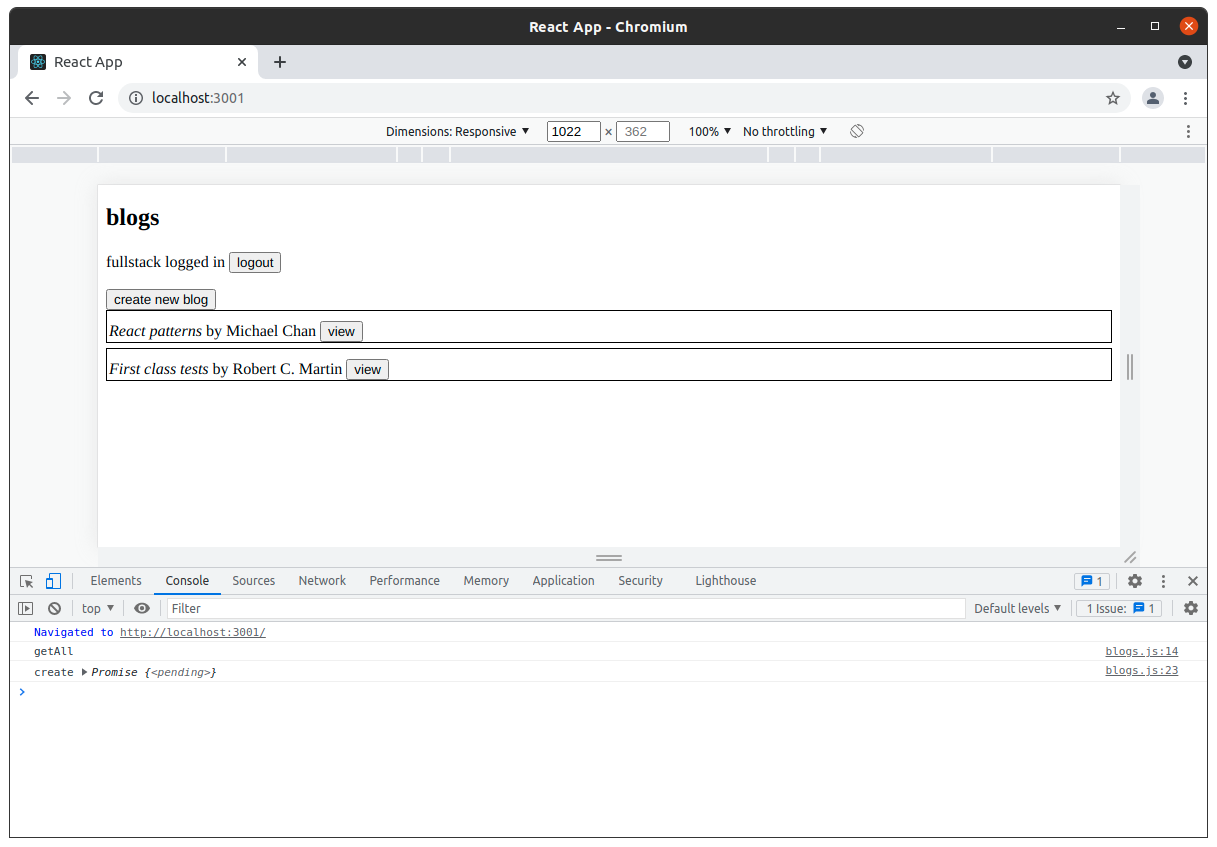
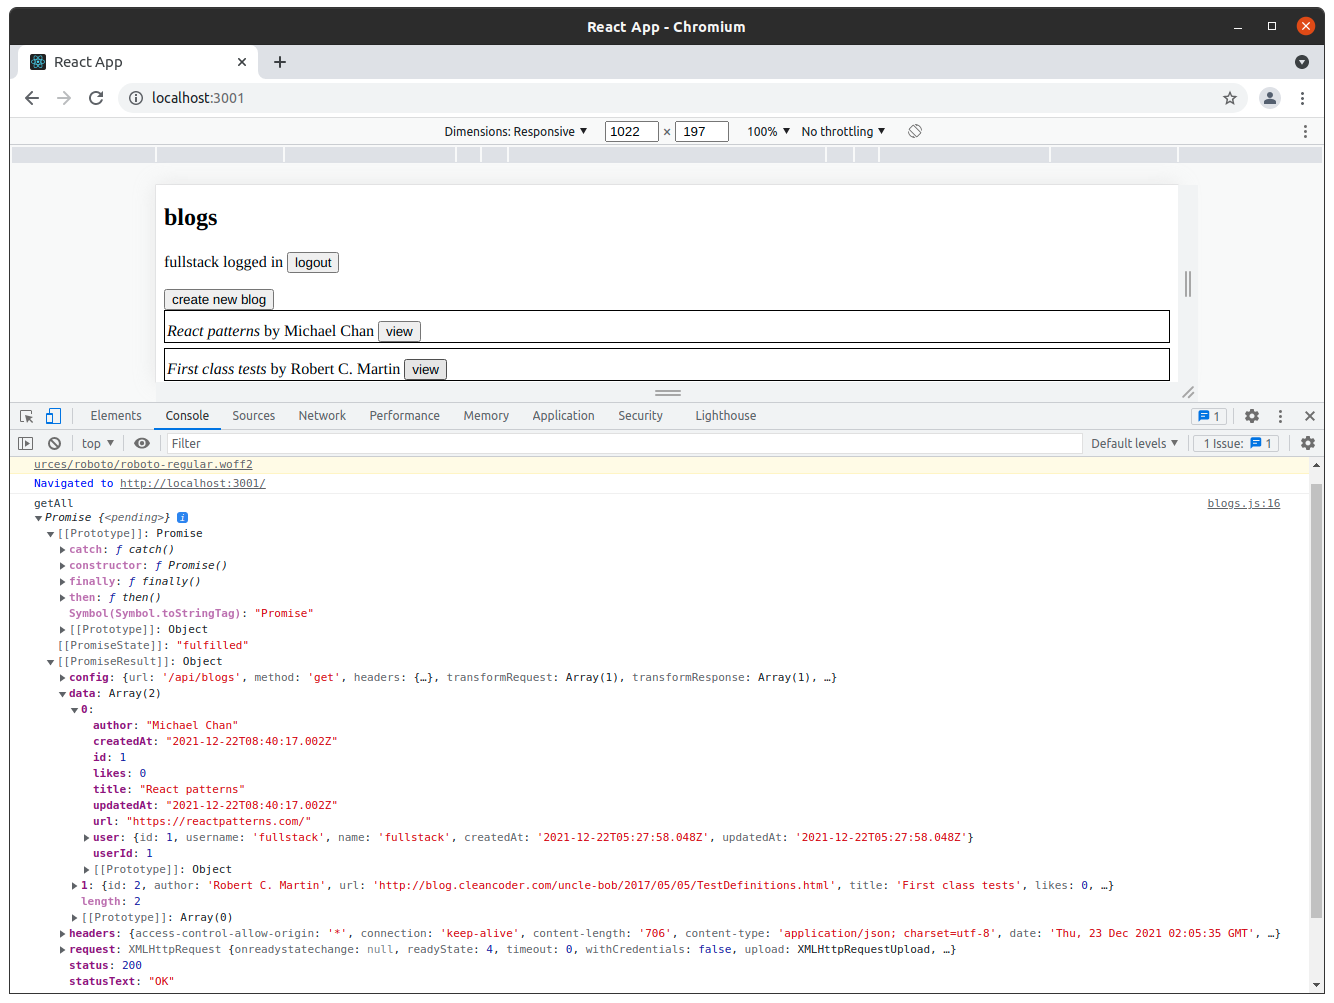
13.10

Changed region(s): [[0.0, 0.0, 0.9992, 1.0], [0.7806, 0.8595, 0.8118, 0.8902]]

diff --git a/13.10/blogs/backend/controllers/blogs.js b/13.10/blogs/backend/controllers/blogs.js
@@ -47,10 +47,13 @@ const blogFinder = async (request, response, next) => {
 
 blogsRouter.get('/blogs', async (request, response) => {
   
-  console.log('blogsRouter')
+  console.log('blogsRouter.get /blogs')
 
   const blogs = await Blog.findAll({
-    attributes: { exclude: ['id'] }
+    include: {
+      model: User,
+      attributes: { exclude: ['userId'] }
+    }
   })
 
   //console.log(blogs.map(blog => blog.toJSON()))
@@ -58,7 +61,6 @@ blogsRouter.get('/blogs', async (request, response) => {
   console.log(JSON.stringify(blogs))
   
   response.json(blogs)
-
 })
 
 blogsRouter.get('/blogs/:id', async (request, response) => {
@@ -147,49 +149,61 @@ blogsRouter.post('/blogs', tokenExtractor, async (request, response) => {
   }
 })
 
-blogsRouter.delete('/blogs/:id', async (request, response) => {
+blogsRouter.delete('/blogs/:id', tokenExtractor, async (request, response) => {
 
-  var decodedToken = null
+  console.log('delete', request.params.id)
 
-  var user = null
+  if(request.token && SECRET) {
 
-  var blog = null
+    console.log('delete', request.token, request.decodedToken)
 
-  if(request.token && process.env.SECRET) {
-
-    decodedToken = jwt.verify(request.token, process.env.SECRET)
+    var decodedToken = jwt.verify(request.token, SECRET)
 
     if (!request.token || !decodedToken.id) {
+
+      console.error('token missing or invalid')
     
       return response.status(401).json({ error: 'token missing or invalid' })
     }
 
-    user = await User.findById(decodedToken.id)
-  
-    blog = await Blog.findById(request.params.id)
-  
-    if (blog.user.toString() !== user.id.toString()) {
+    //user = await User.findById(decodedToken.id)
 
-    return response.status(401).json({ error: 'only the creator can delete blogs' })
-  
+    const user = await User.findOne({ where: { username: request.decodedToken.username }})
+    
+    if (user) {
+
+      const blog = await Blog.findById(request.params.id)
+
+      if (blog.user.toString() !== user.id.toString()) {
+
+        console.error('only the creator can delete blogs')
+
+        return response.status(401).json({ error: 'only the creator can delete blogs' })
+      }
+
+      await blog.remove()
+    
+      user.blogs = user.blogs.filter(b => b.id.toString() !== request.params.id.toString())
+    
+      await user.save()
+    
+      response.status(204).end()
+    } else {
+
+      return response.status(401).json({ error: 'user not found' })
     }
-
-    await blog.remove()
-  
-    user.blogs = user.blogs.filter(b => b.id.toString() !== request.params.id.toString())
-  
-    await user.save()
-  
-    response.status(204).end()
   }
   else {
 
-    blog = await Blog.findById(request.params.id)
+    //blog = await Blog.findById(request.params.id)
 
-    await blog.remove()
+    //await blog.remove()
 
-    response.status(204).end()
+    //response.status(204).end()
+
+    return response.status(401).json({ error: 'token not found' })
   }
+
 })
 
 module.exports = blogsRouter

diff --git a/13.10/blogs/backend/controllers/users.js b/13.10/blogs/backend/controllers/users.js
@@ -2,21 +2,32 @@ const bcrypt = require('bcrypt')
 
 const usersRouter = require('express').Router()
 
-const { User } = require('../models')
+const { User, Blog } = require('../models')
 
 //const User = require('../models/user')
 
 const { check, validationResult } = require('express-validator')
 
 usersRouter.get('/users', async (request, response) => {
-  const users = await User
-    .find({})
-    .populate('blogs', { title: 1, url: 1, likes: 1, author: 1 })
+
+  console.log('usersRouter.get /users')
+
+  const users = await User.findAll({
+    include: {
+      model: Blog,
+      attributes: ['id', 'title', 'url', 'likes', 'author' ]
+      //attributes: { exclude: ['userId'] },
+    }
+  })
+
+  //.populate('blogs', { title: 1, url: 1, likes: 1, author: 1 })
 
   response.json(users.map(user => user.toJSON()))
 })
 
 usersRouter.get('/users/:id', async (request, response) => {
+
+  console.log('usersRouter.get /users/:id', request.params.id)
 
   try {
 
@@ -41,7 +52,7 @@ usersRouter.post('/users', [check('username').isEmail()], async (request, respon
 
   const { username, name, password } = request.body
 
-  console.log('users', username, name, password)
+  console.log('usersRouter.post /users', username, name, password)
 
   const errors = validationResult(request)
 

diff --git a/13.10/blogs/frontend/src/services/blogs.js b/13.10/blogs/frontend/src/services/blogs.js
@@ -11,26 +11,37 @@ const getConfig = () => {
 
 const getAll = () => {
 
-  console.log('getAll')
-  
   const request = axios.get(baseUrl)
-  
+
+  console.log('getAll', request)
+
   return request.then(response => response.data)
 }
 
 const create = (blog) => {
+
   const request = axios.post(baseUrl, blog, getConfig())
-  console.log('create',request)
+
+  console.log('create', request)
+
   return request.then(response => response.data)
 }
 
 const update = (blog) => {
+
   const request = axios.put(`${baseUrl}/${blog.id}`, blog, getConfig())
+  
+  console.log('update', request)
+
   return request.then(response => response.data)
 }
 
 const remove = (id) => {
+
   const request = axios.delete(`${baseUrl}/${id}`, getConfig())
+  
+  console.log('remove', request)
+
   return request.then(response => response.data)
 }
 

diff --git a/13.10/blogs/frontend/src/App.js b/13.10/blogs/frontend/src/App.js
@@ -25,6 +25,7 @@ const App = () => {
 
   useEffect(() => {
     const user = storage.loadUser()
+    console.log('useEffect user', user)
     setUser(user)
   }, [])
 
@@ -43,11 +44,12 @@ const App = () => {
 
     try {
 
-      console.log('handleLogin')
-
+      
       const user = await loginService.login({
         username, password
       })
+
+      console.log('handleLogin', user)
 
       setUsername('')
 

diff --git a/13.10/blogs/frontend/src/components/Blog.js b/13.10/blogs/frontend/src/components/Blog.js
@@ -2,6 +2,7 @@ import React, { useState } from 'react'
 import PropTypes from 'prop-types'
 
 const Blog = ({ blog, handleLike, handleRemove, own }) => {
+
   const [visible, setVisible] = useState(false)
 
   const blogStyle = {
